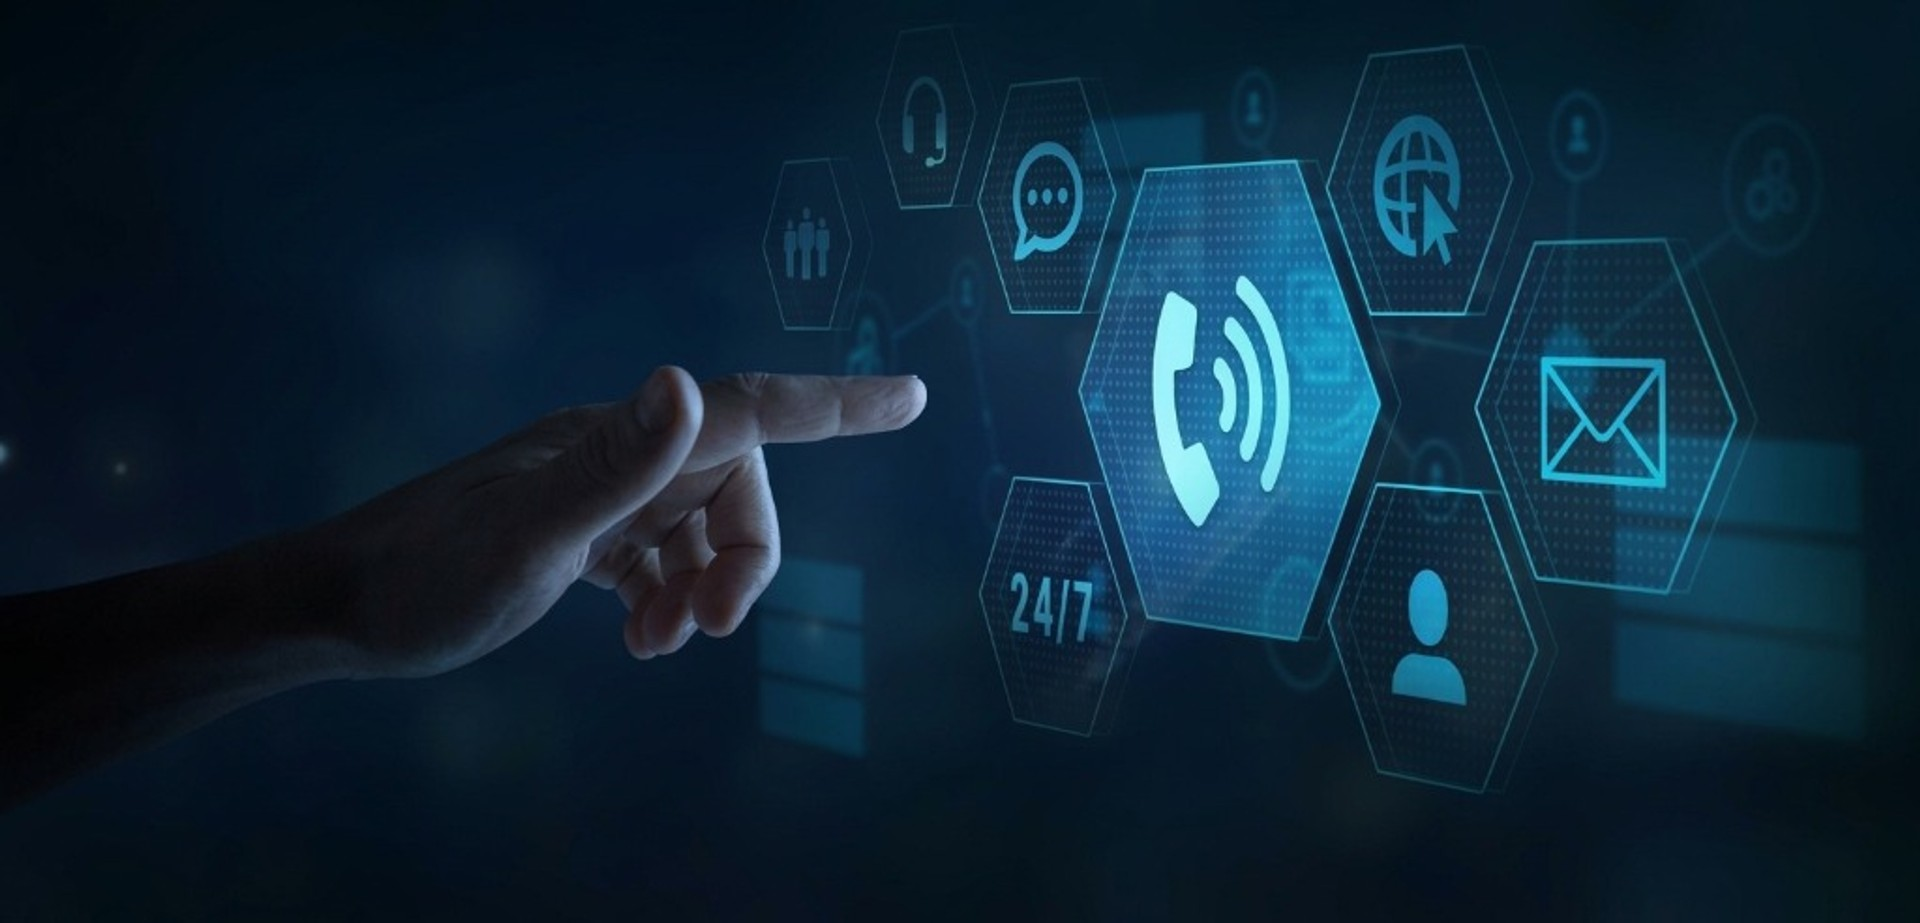
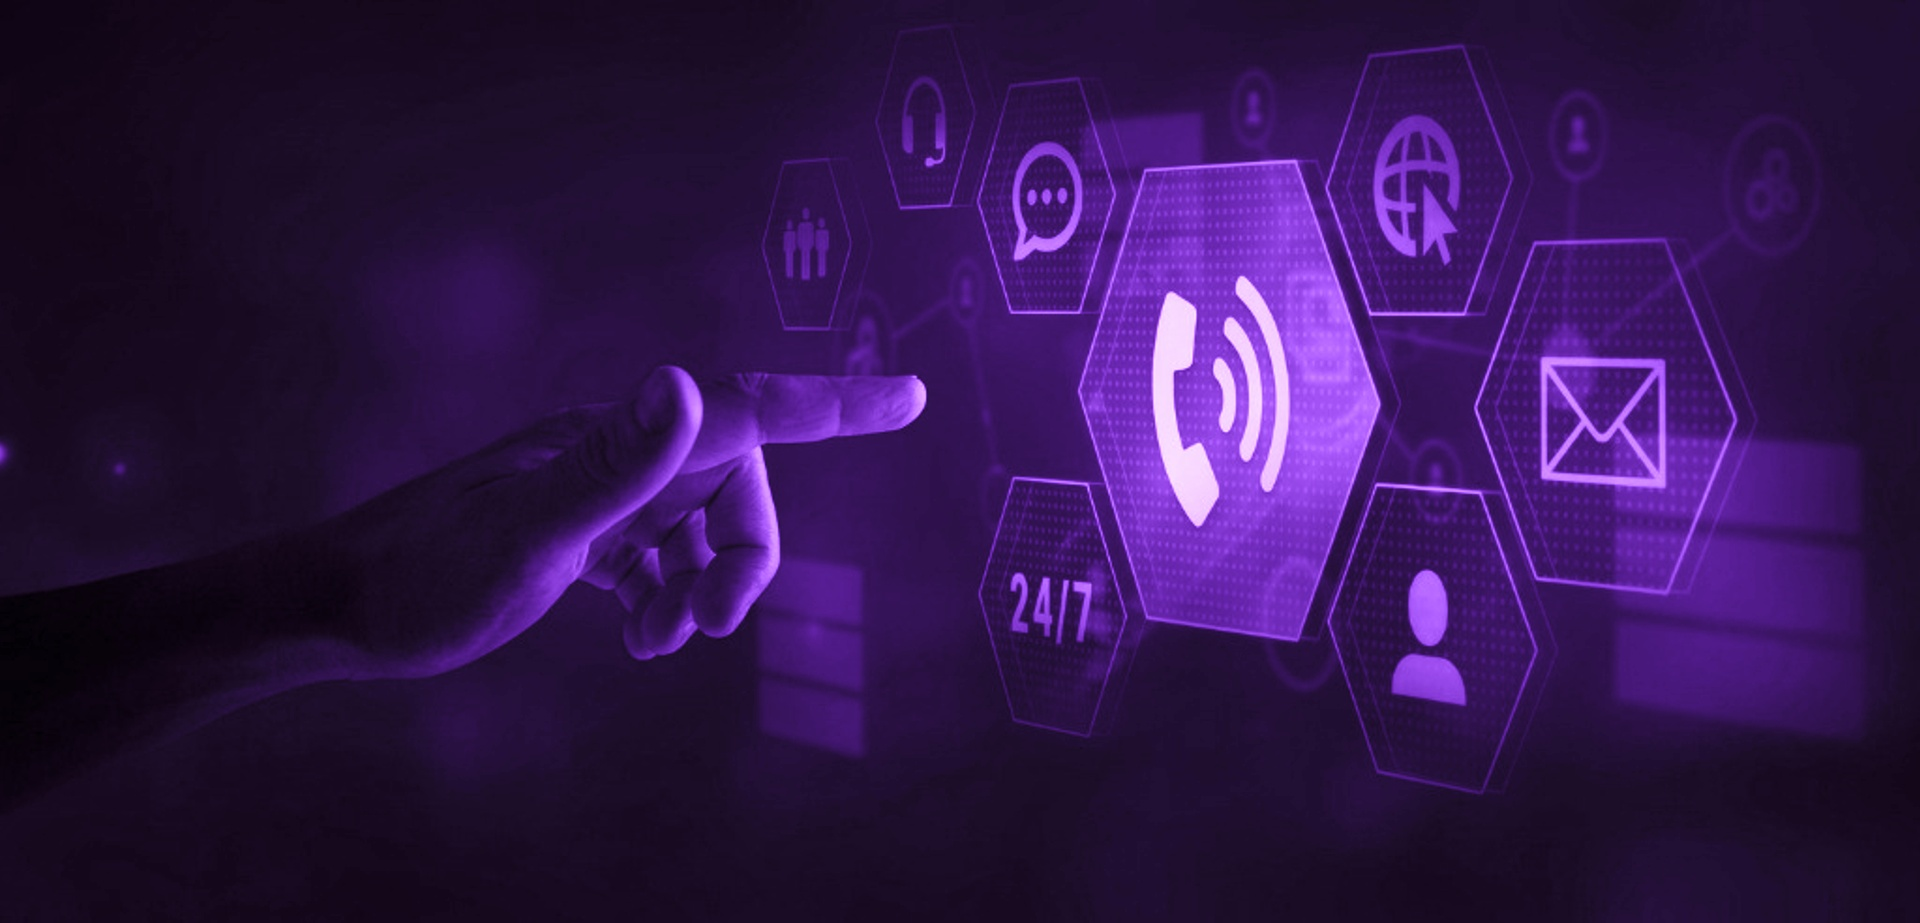
feat(contact): theme contact hero background image to match purple and squid ink palette

diff --git a/app/contact-us/page.tsx b/app/contact-us/page.tsx
@@ -31,11 +31,11 @@ export default function ContactUs() {
             alt="Contact Us"
             fill
             sizes="100vw"
-            className="object-cover opacity-25 object-center"
+            className="object-cover opacity-30 object-center"
             quality={90}
             priority
           />
-          <div className="absolute inset-0 bg-gradient-to-b from-[var(--squid-ink-deep)]/90 via-[var(--squid-ink-deep)]/75 to-[var(--squid-ink-deep)]" />
+          <div className="absolute inset-0 bg-gradient-to-b from-[var(--squid-ink-deep)]/85 via-[var(--squid-ink-deep)]/70 to-[var(--squid-ink-deep)]" />
         </div>
 
         <motion.div
